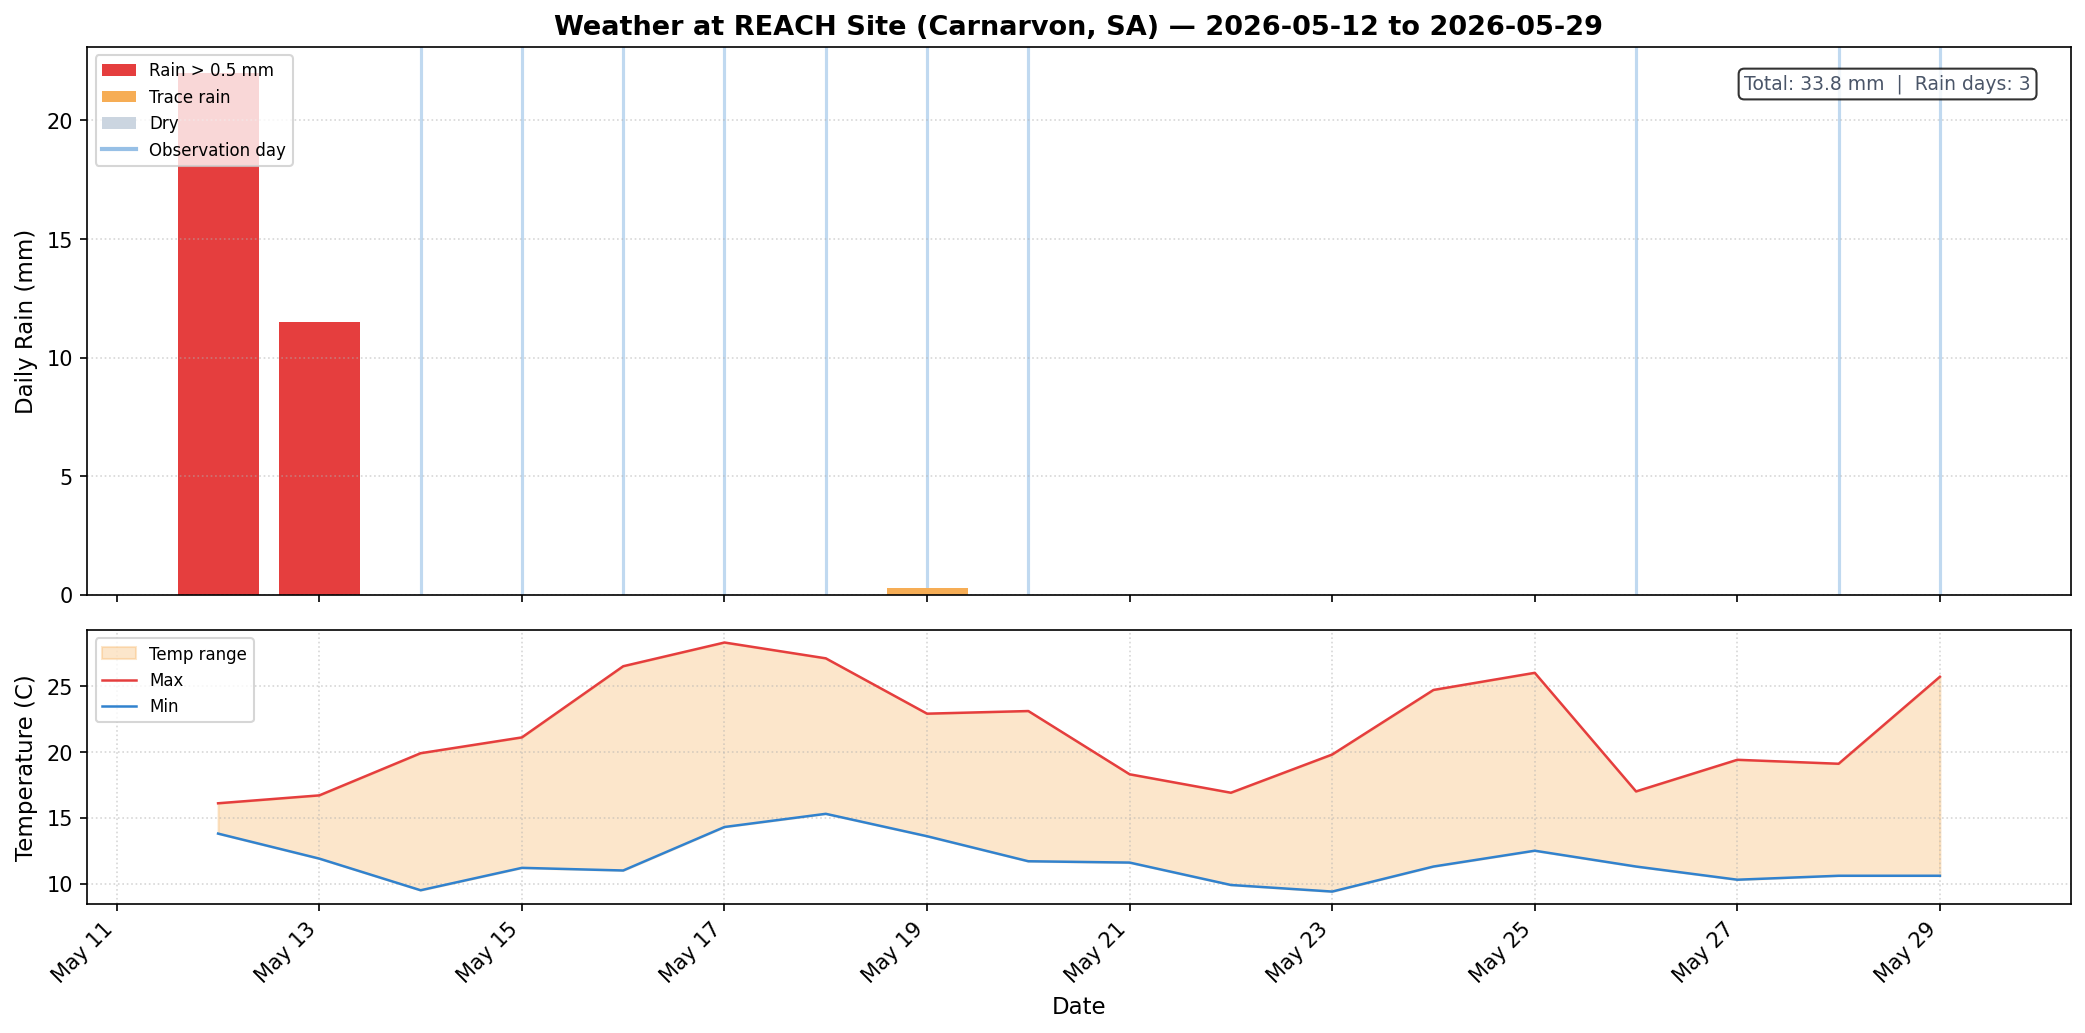
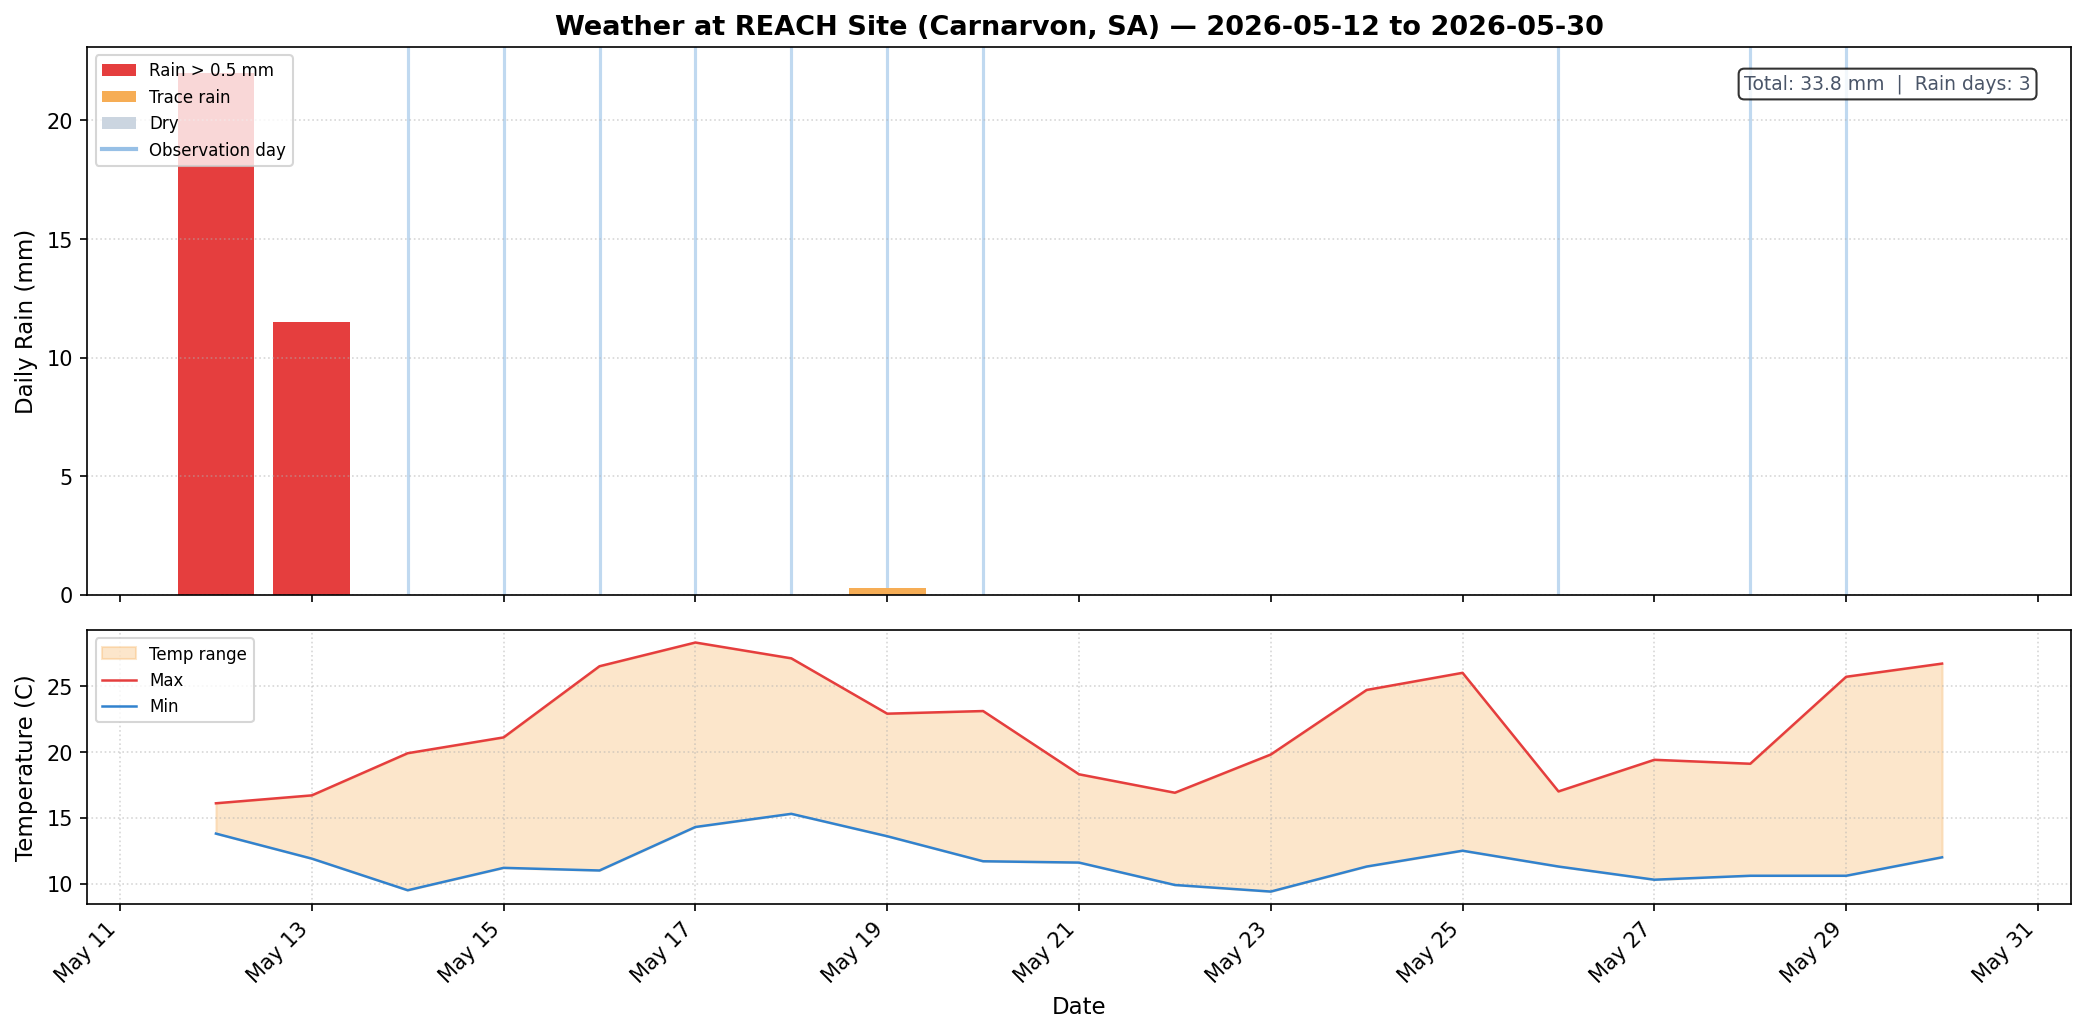
Daily dashboard update 2026-05-31 07:18 UTC

diff --git a/2026_05_29/index.html b/2026_05_29/index.html
@@ -206,7 +206,7 @@
 
   <div class="header">
     <h1>REACH Instrument Monitoring Dashboard</h1>
-    <div class="update-time">Last updated: 2026-05-30 07:46 UTC</div>
+    <div class="update-time">Last updated: 2026-05-31 07:18 UTC</div>
 
     <div class="date-nav">
       <label>Viewing date:</label>
@@ -237,7 +237,7 @@
 
   <div class="section">
     <h2>Site Weather (Carnarvon, SA)</h2>
-    <div class="dates-label">Rainfall and temperature — 18 days shown, 33.8 mm total rain (Open-Meteo)</div>
+    <div class="dates-label">Rainfall and temperature — 19 days shown, 33.8 mm total rain (Open-Meteo)</div>
     <img class="plot-img" src="plots/weather.png"
          alt="Site Weather" loading="lazy">
   </div>
